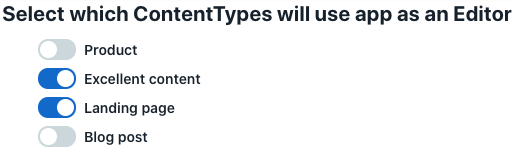
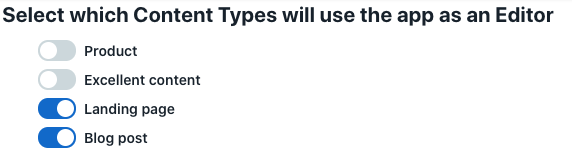
fix: pr issues
link to the code
fix header in code
update screenshot

diff --git a/examples/content-type-selection-config/set-editors.tsx b/examples/content-type-selection-config/set-editors.tsx
@@ -103,7 +103,7 @@ export default class Config extends Component<ConfigProps, ConfigState> {
   render() {
     return (
       <>
-        <Heading>Select which ContentTypes will use app as an Editor</Heading>
+        <Heading>Select which Content Types will use the app as an Editor</Heading>
         <List>
           {this.state.data.map(({ active, contentType }, index) => (
             <ListItem key={contentType.sys.id}>

diff --git a/examples/content-type-selection-config/README.md b/examples/content-type-selection-config/README.md
@@ -1,7 +1,7 @@
-# Assigning an app to ContentTypes
+# Assigning an app to Content Types
 
 We recommend using Target State to assign apps to specific content types in your app's config location. Doing this simplifies the process of installing an app.
-The code in `./set-editors.tsx` offers an example of how to use Target State to
+The code in [set-editors.tsx](./set-editors.tsx) offers an example of how to use Target State to
 enable an app for the EntryEditor location of selected content types.
 
 ![Content type selection in config location](./config-screenshot.png)
